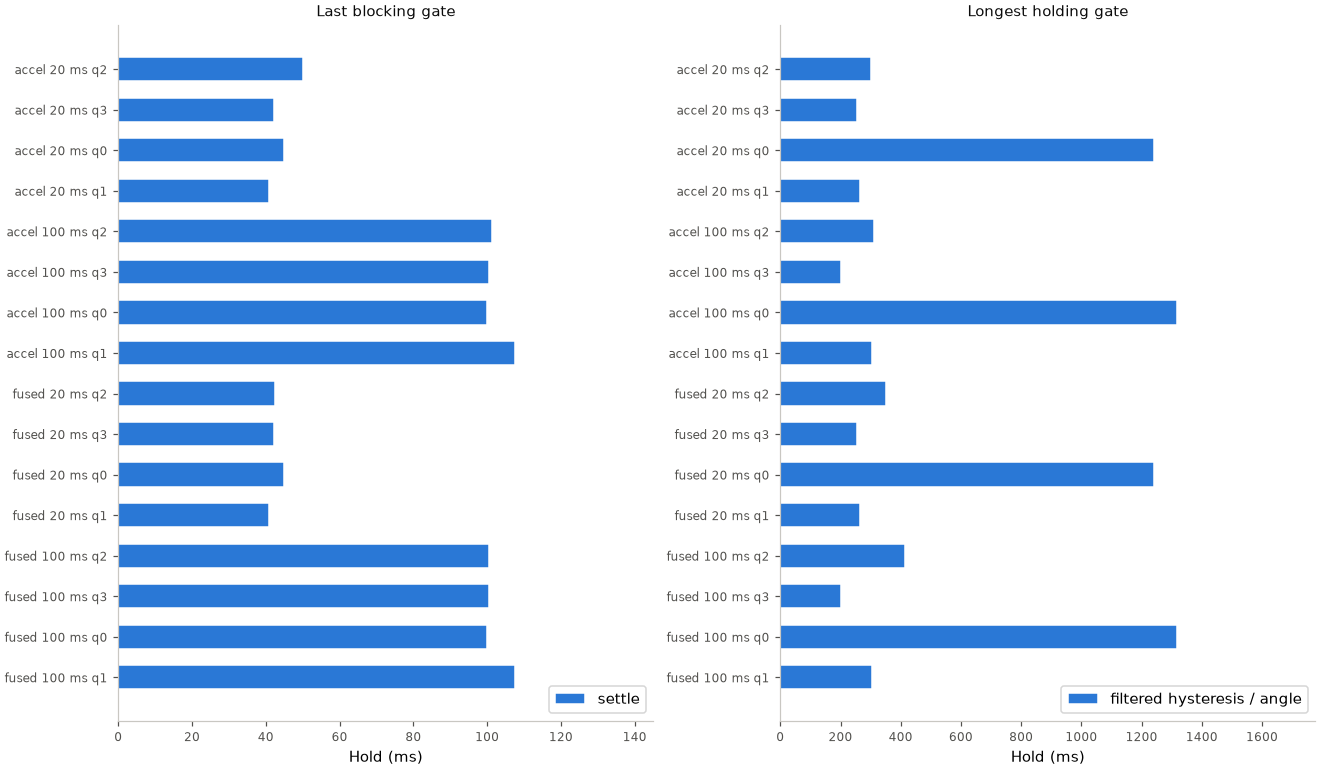
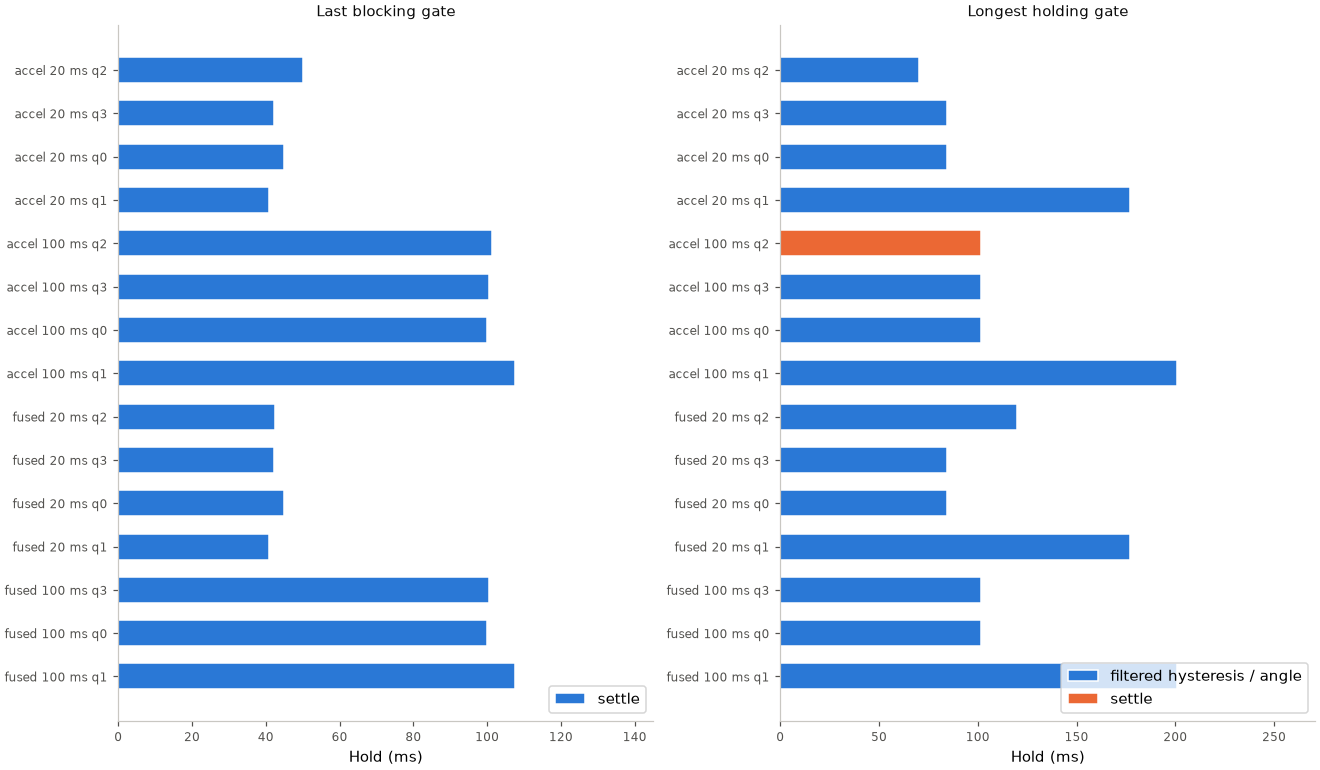
input: fix orientation flat detection and replay scoring

diff --git a/launcher/main/apps/input_lab/tools/test_orientation_replay.py b/launcher/main/apps/input_lab/tools/test_orientation_replay.py
@@ -133,18 +133,54 @@ class OrientationReplayTests(unittest.TestCase):
         result = replay.measure(self.binary, samples, [(600_000, 0)], initial=1)
         self.assertEqual(result.unwanted, 1)
 
+    def test_lost_candidate_restarts_settle(self):
+        scale = replay.read_define(ROOT / "launcher/main/input/input.h", "INPUT_ACCEL_ONE_G")
+        period = replay.display_define("DISPLAY_SAMPLE_MS") * replay.US_PER_MS
+        samples = [(0, 0, scale, 0), (period, -scale, 0, 0), (2 * period, 0, scale, 0)]
+        result = replay.measure(self.binary, samples, [(2 * period, 0)], initial=1)
+        self.assertEqual((0, 1), (result.wanted, result.unwanted))
+
+    def test_invalid_tilt_restarts_valid_settle(self):
+        scale = replay.read_define(ROOT / "launcher/main/input/input.h", "INPUT_ACCEL_ONE_G")
+        period = replay.display_define("DISPLAY_SAMPLE_MS") * replay.US_PER_MS
+        settle = replay.display_define("DISPLAY_SETTLE_MS") * replay.US_PER_MS
+        samples = [(0, 0, scale, 0), (period, 0, scale, -10 * scale), (settle, 0, scale, 0)]
+        result = replay.measure(self.binary, samples, [(settle, 0)], initial=1)
+        self.assertEqual((0, 1), (result.wanted, result.unwanted))
+
+    def test_scoring_near_zero_counts_do_not_justify_commit(self):
+        scale = replay.read_define(ROOT / "launcher/main/input/input.h", "INPUT_ACCEL_ONE_G")
+        tiny = int(scale * replay.display_define("DISPLAY_NEAR_ZERO_G") / 2)
+        settle = replay.display_define("DISPLAY_SETTLE_MS") * replay.US_PER_MS
+        samples = [(time, 0, tiny, 0) for time in (0, settle)]
+        result = replay.measure(self.binary, samples, [(settle, 0)], initial=1)
+        self.assertEqual((0, 1), (result.wanted, result.unwanted))
+
+    def test_flat_dwell_uses_only_face_up(self):
+        scale = replay.read_define(ROOT / "launcher/main/input/input.h", "INPUT_ACCEL_ONE_G")
+        dwell = replay.display_define("DISPLAY_FLAT_MS") * replay.US_PER_MS
+        for sign, flat in ((-1, 1), (1, 0)):
+            with self.subTest(sign=sign):
+                samples = [(time, 0, 0, sign * scale, 0, 0, 0) for time in range(0, dwell + 1, 5000)]
+                rows = replay.gate_trace(self.binary, "accel", 20, 1, samples)
+                gates = [row for kind, row in rows if kind == "G"]
+                self.assertEqual(flat, gates[-1][-2])
+                self.assertEqual(replay.NO_QUARTER, gates[-1][2])
+                self.assertEqual(flat == 1, gates[-1][4] >= 0)
+
     def test_scoring_settle_quiet_and_freshness_boundaries(self):
         settle = replay.display_define("DISPLAY_SETTLE_MS") * replay.US_PER_MS
         period = replay.display_define("DISPLAY_SAMPLE_MS") * replay.US_PER_MS
-        samples = [(0, 0, 1, 0), (settle, 0, 1, 0)]
+        scale = replay.read_define(ROOT / "launcher/main/input/input.h", "INPUT_ACCEL_ONE_G")
+        samples = [(0, 0, scale, 0), (settle, 0, scale, 0)]
         self.assertEqual(1, replay.measure(self.binary, samples, [(settle, 0)], 1).wanted)
         self.assertEqual(1, replay.measure(self.binary, samples, [(settle - 1, 0)], 1).unwanted)
         self.assertEqual(1, replay.measure(self.binary, samples, [(settle, 0)], 1,
                                          [(5, settle, replay.NO_QUARTER)]).unwanted)
         self.assertEqual(1, replay.measure(self.binary, samples, [(settle + 1, 0)], 1).unwanted)
-        for age, wanted in ((2 * period, 1), (2 * period + 1, 0)):
-            stale = [*samples, (settle + age, -1, 0, 0)]
-            self.assertEqual(wanted, replay.measure(self.binary, stale, [(settle + age, 0)], 1).wanted)
+        for age in (2 * period, 2 * period + 1):
+            stale = [*samples, (settle + age, -scale, 0, 0)]
+            self.assertEqual(1, replay.measure(self.binary, stale, [(settle + age, 0)], 1).unwanted)
         self.assertEqual(1, replay.measure(self.binary, samples, [(settle, 2)], 1).unwanted)
 
     def test_motion_quarter_agrees_with_c_for_axes_gap_and_tilt(self):

diff --git a/launcher/test/suites/suite_display.c b/launcher/test/suites/suite_display.c
@@ -129,6 +129,25 @@ test_flat_cooldown_starts_when_flat_ends(void) {
 }
 
 static void
+test_face_down_has_no_flat_dwell_or_cooldown(void) {
+    for (int q = 0; q < DISPLAY_QUARTER_COUNT; q++) {
+        display_t d = fixture(q);
+        int64_t now = 0;
+        const int target = (q + 1) % DISPLAY_QUARTER_COUNT;
+        const vec3f_t down = sample(target, 0, -DISPLAY_FLAT_DEG - TEST_ANGLE_MARGIN_DEG, 1);
+        TEST_ASSERT_EQUAL_INT(0, feed(&d, down, &now, DISPLAY_FLAT_MS));
+        TEST_ASSERT_FALSE(d.flat);
+        TEST_ASSERT_EQUAL_INT(DISPLAY_QUARTER_NONE, d.predicted);
+        TEST_ASSERT_EQUAL_INT64(DISPLAY_TIME_NONE, d.flat_since_us);
+        TEST_ASSERT_EQUAL_INT64(DISPLAY_TIME_NONE, d.flat_ended_us);
+        const vec3f_t upright = sample(target, 0, 0, 1);
+        d.filtered = upright;
+        display_update(&d, upright, now);
+        TEST_ASSERT_EQUAL_INT64(DISPLAY_TIME_NONE, d.flat_ended_us);
+    }
+}
+
+static void
 test_near_zero_interrupts_continuous_flat_dwell(void) {
     display_t d = fixture(DISPLAY_PORTRAIT);
     int64_t now = 0;
@@ -477,6 +496,7 @@ run_display_suite(void) {
     RUN_TEST(test_tilt_limits_are_relative_to_default);
     RUN_TEST(test_flat_and_face_up_offset_never_switch);
     RUN_TEST(test_flat_cooldown_starts_when_flat_ends);
+    RUN_TEST(test_face_down_has_no_flat_dwell_or_cooldown);
     RUN_TEST(test_near_zero_interrupts_continuous_flat_dwell);
     RUN_TEST(test_overhead_hysteresis_in_every_rotation);
     RUN_TEST(test_acceleration_cooldown_in_every_rotation);

diff --git a/launcher/main/apps/input_lab/tools/orientation_replay.py b/launcher/main/apps/input_lab/tools/orientation_replay.py
@@ -122,6 +122,8 @@ def motion_quarter(binary, sample, old):
 
 
 def measure(binary, samples, events, initial, segments=()):
+    scale = read_define(ROOT / "launcher/main/input/input.h", "INPUT_ACCEL_ONE_G")
+    samples = [(sample[0], *(value / scale for value in sample[1:4])) for sample in samples]
     classify(binary, samples)
     pending, turns, unwanted, latencies = None, [], 0, []
     position = 0
@@ -131,10 +133,14 @@ def measure(binary, samples, events, initial, segments=()):
     for sample in samples:
         time = sample[0]
         candidate, valid = motion_quarter(binary, sample, current)
-        if candidate is not None and (pending is None or pending[0] != candidate):
+        if candidate is None:
+            pending = None
+        elif pending is None or pending[0] != candidate:
             pending = (candidate, time, time if valid else None, time if valid else None)
-        elif candidate is not None and valid:
+        elif valid:
             pending = (candidate, pending[1], pending[2] if pending[2] is not None else time, time)
+        else:
+            pending = (candidate, pending[1], None, None)
         while position < len(events) and events[position][0] <= time:
             commit, quarter = events[position]
             wanted = (commit < quiet_start and pending is not None and pending[0] == quarter

diff --git a/launcher/main/display/display.c b/launcher/main/display/display.c
@@ -87,7 +87,7 @@ track_swing(display_t* d, float sine, float cosine, int64_t now_us) {
 static void
 track_tilt(display_t* d, float sine, float cosine, int64_t now_us) {
     const bool was_flat = d->flat;
-    if (fabsf(sine) >= DISPLAY_FLAT_SIN) {
+    if (sine >= DISPLAY_FLAT_SIN) {
         if (d->flat_since_us == DISPLAY_TIME_NONE) {
             d->flat_since_us = now_us;
         }

diff --git a/launcher/main/apps/input_lab/README.md b/launcher/main/apps/input_lab/README.md
@@ -154,10 +154,10 @@ python launcher/main/apps/input_lab/tools/shake_fit.py --results
 <!-- generated: orientation-results check: python launcher/main/apps/input_lab/tools/orientation_replay.py --results --check --cc gcc -->
 | Model | Cadence | Wanted turns | Unwanted switches | Median latency | Max latency |
 |---|---:|---:|---:|---:|---:|
-| accel | 20 ms | 4 | 0 | 338 ms | 1285 ms |
-| accel | 100 ms | 4 | 0 | 451 ms | 1425 ms |
-| fused | 20 ms | 4 | 0 | 360 ms | 1285 ms |
-| fused | 100 ms | 4 | 0 | 501 ms | 1425 ms |
+| accel | 20 ms | 4 | 0 | 130 ms | 227 ms |
+| accel | 100 ms | 4 | 0 | 242 ms | 377 ms |
+| fused | 20 ms | 4 | 0 | 150 ms | 227 ms |
+| fused | 100 ms | 3 | 1 | 274 ms | 377 ms |
 
 ![Gate hold durations](images/orientation-gates.png)
 
@@ -166,22 +166,21 @@ python launcher/main/apps/input_lab/tools/shake_fit.py --results
 
 | Model | Cadence | Quarter | Last gate | Last hold | Longest gate | Longest hold |
 |---|---:|---:|---|---:|---|---:|
-| accel | 20 ms | 2 | settle | 50 ms | filtered hysteresis / angle | 302 ms |
-| accel | 20 ms | 3 | settle | 42 ms | filtered hysteresis / angle | 256 ms |
-| accel | 20 ms | 0 | settle | 45 ms | filtered hysteresis / angle | 1240 ms |
-| accel | 20 ms | 1 | settle | 41 ms | filtered hysteresis / angle | 266 ms |
-| accel | 100 ms | 2 | settle | 101 ms | filtered hysteresis / angle | 312 ms |
-| accel | 100 ms | 3 | settle | 100 ms | filtered hysteresis / angle | 203 ms |
-| accel | 100 ms | 0 | settle | 100 ms | filtered hysteresis / angle | 1316 ms |
-| accel | 100 ms | 1 | settle | 107 ms | filtered hysteresis / angle | 305 ms |
-| fused | 20 ms | 2 | settle | 43 ms | filtered hysteresis / angle | 352 ms |
-| fused | 20 ms | 3 | settle | 42 ms | filtered hysteresis / angle | 256 ms |
-| fused | 20 ms | 0 | settle | 45 ms | filtered hysteresis / angle | 1240 ms |
-| fused | 20 ms | 1 | settle | 41 ms | filtered hysteresis / angle | 266 ms |
-| fused | 100 ms | 2 | settle | 100 ms | filtered hysteresis / angle | 413 ms |
-| fused | 100 ms | 3 | settle | 100 ms | filtered hysteresis / angle | 203 ms |
-| fused | 100 ms | 0 | settle | 100 ms | filtered hysteresis / angle | 1316 ms |
-| fused | 100 ms | 1 | settle | 107 ms | filtered hysteresis / angle | 305 ms |
+| accel | 20 ms | 2 | settle | 50 ms | filtered hysteresis / angle | 70 ms |
+| accel | 20 ms | 3 | settle | 42 ms | filtered hysteresis / angle | 84 ms |
+| accel | 20 ms | 0 | settle | 45 ms | filtered hysteresis / angle | 84 ms |
+| accel | 20 ms | 1 | settle | 41 ms | filtered hysteresis / angle | 177 ms |
+| accel | 100 ms | 2 | settle | 101 ms | settle | 101 ms |
+| accel | 100 ms | 3 | settle | 100 ms | filtered hysteresis / angle | 102 ms |
+| accel | 100 ms | 0 | settle | 100 ms | filtered hysteresis / angle | 102 ms |
+| accel | 100 ms | 1 | settle | 107 ms | filtered hysteresis / angle | 201 ms |
+| fused | 20 ms | 2 | settle | 43 ms | filtered hysteresis / angle | 120 ms |
+| fused | 20 ms | 3 | settle | 42 ms | filtered hysteresis / angle | 84 ms |
+| fused | 20 ms | 0 | settle | 45 ms | filtered hysteresis / angle | 84 ms |
+| fused | 20 ms | 1 | settle | 41 ms | filtered hysteresis / angle | 177 ms |
+| fused | 100 ms | 3 | settle | 100 ms | filtered hysteresis / angle | 102 ms |
+| fused | 100 ms | 0 | settle | 100 ms | filtered hysteresis / angle | 102 ms |
+| fused | 100 ms | 1 | settle | 107 ms | filtered hysteresis / angle | 201 ms |
 
 </details>
 <!-- /generated: orientation-results -->
